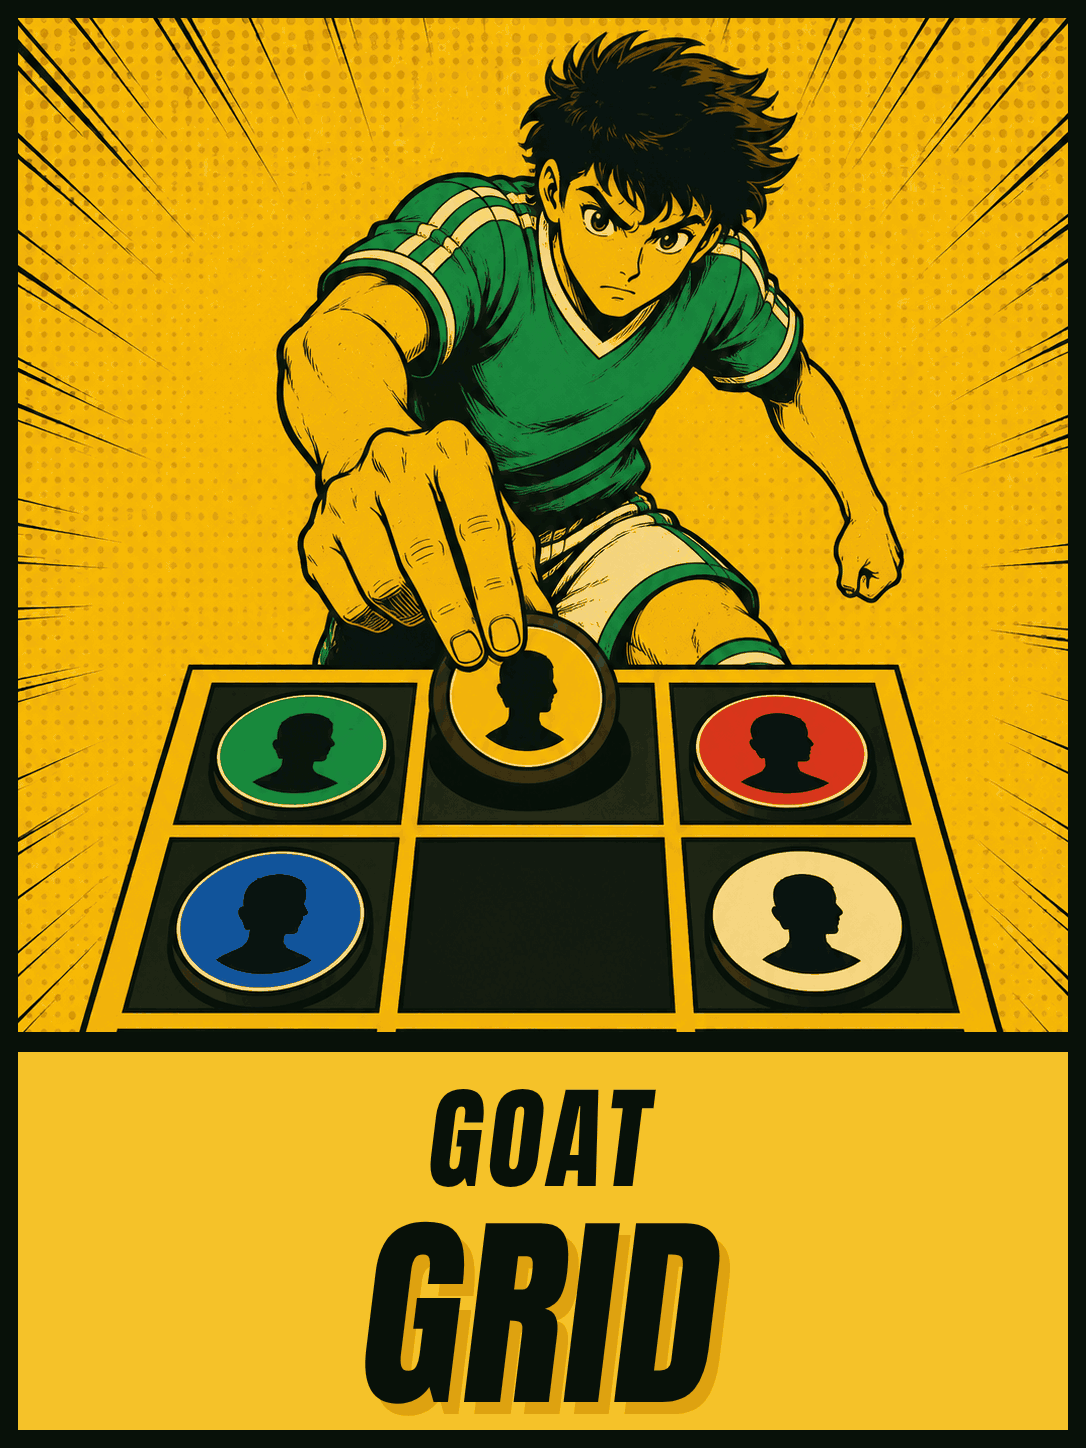
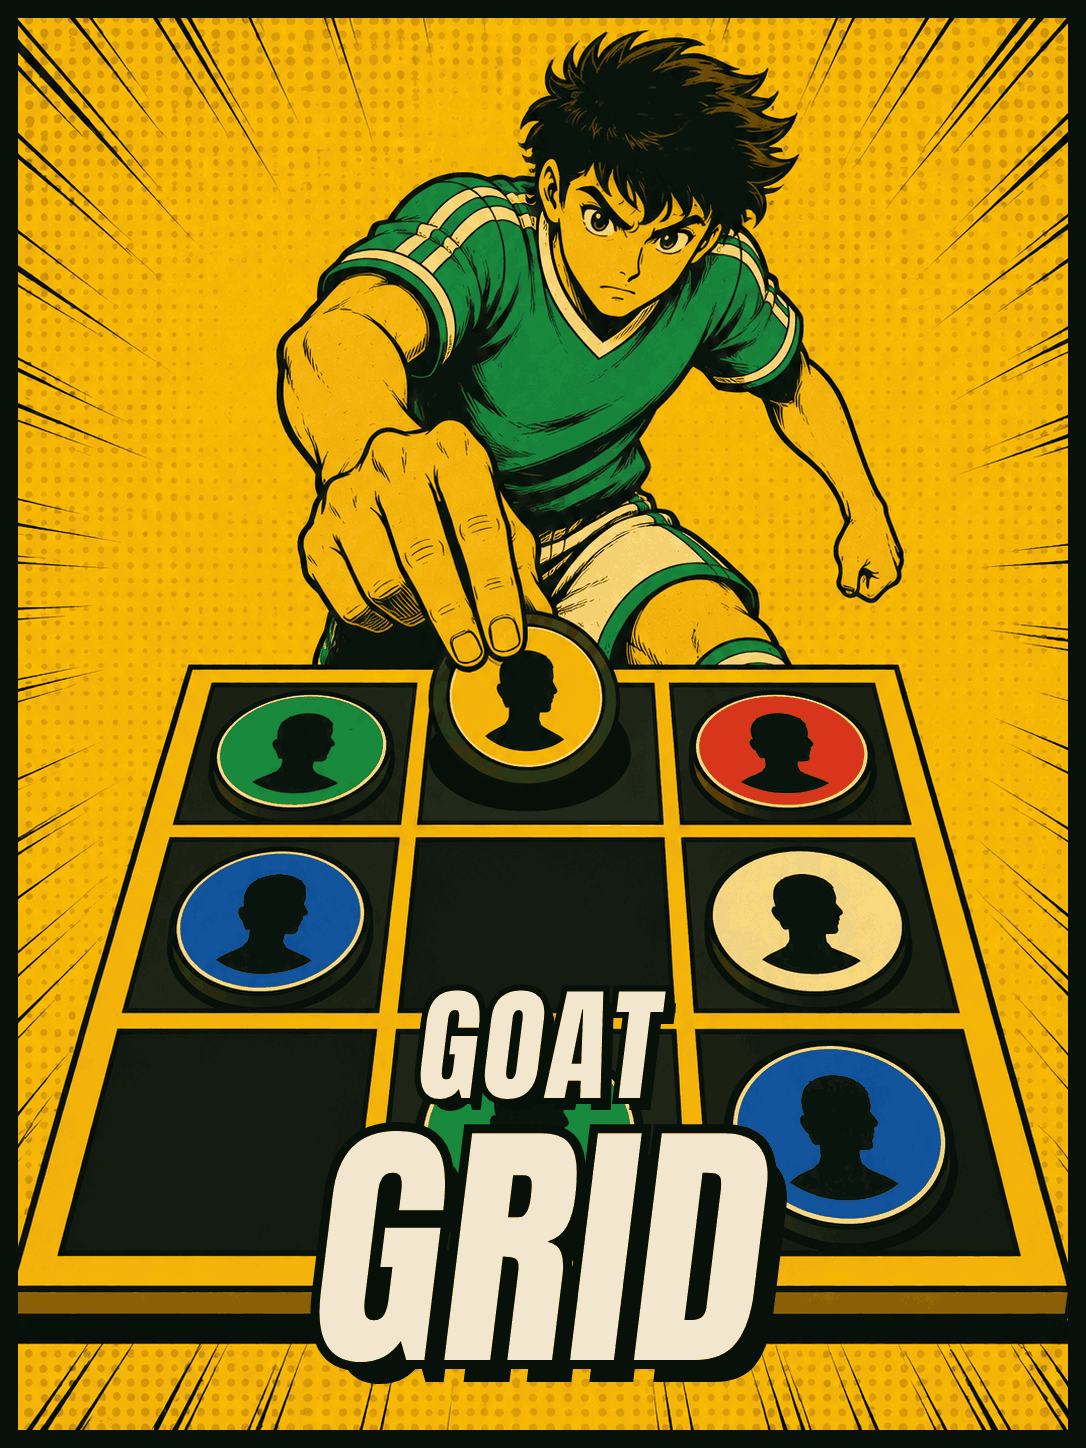
Titre a meme le dessin, en relief, sans bandeau (#546)
Le bandeau disparait : le titre vit sur l'illustration, comme sur une affiche.

Ce qui le rend lisible n'est PAS la couleur des lettres mais leur CONTOUR. Le
fond est dore, charge de lignes de vitesse et de trame : un lettrage creme pose
nu y tomberait a 1,4 de contraste et disparaitrait. Cerne d'encre, c'est le
contour qui porte le contraste — 11,5 contre l'or — et le creme ne sert plus qu'a
remplir. Contour d'encre epais, puis ombre dure d'encre decalee : les deux
ensemble donnent le relief.

C'est aussi ce qui fait tenir le titre sur les TROIS types de fond que ces
illustrations presentent : l'or, la capuche sombre du devin, le plateau noir de
la grille. Sur l'or c'est le contour qui separe, sur le sombre c'est le
remplissage — la recette couvre les deux sans reglage par carte.

Le piege a connaitre, note dans le script : la meme recette appliquee a des
lettres d'ENCRE sur l'or double le mot d'un fantome noir, l'ombre ayant la
couleur de la lettre. Elle ne marche que sur un lettrage clair.

`paint-order: stroke fill` est indispensable : par defaut le contour est peint
PAR-DESSUS la lettre et lui ronge l'interieur — a 9 px, les contre-formes du A et
du O se bouchent completement.

En bas sur les six, la zone la moins porteuse de chaque dessin, et la ou les
visuels d'avant mettaient deja leur titre.

Poids : 3,3 Mo a eux six, contre 2,6 avec le bandeau — le titre est desormais
pose sur une zone chargee, la palette de 64 teintes a plus a decrire. On reste
[…]

Changed region(s): [[0.0, 0.6837, 1.0, 0.9945], [0.5166, 0.3729, 0.547, 0.4351], [0.4558, 0.1243, 0.4862, 0.1554]]

diff --git a/public/sw.js b/public/sw.js
@@ -4,7 +4,7 @@
 // IMPORTANT : bumper CACHE_NAME à chaque deploy pour forcer le navigateur
 // à détecter un nouveau SW (les changements de fichier suffisent en théorie
 // mais ça garantit un install propre côté PWA mobile installée).
-const CACHE_NAME = "goatfc-v514-2026-08-12";
+const CACHE_NAME = "goatfc-v515-2026-08-12";
 
 // Install : on prend la main tout de suite sans attendre la fermeture des onglets
 self.addEventListener("install", (event) => {
